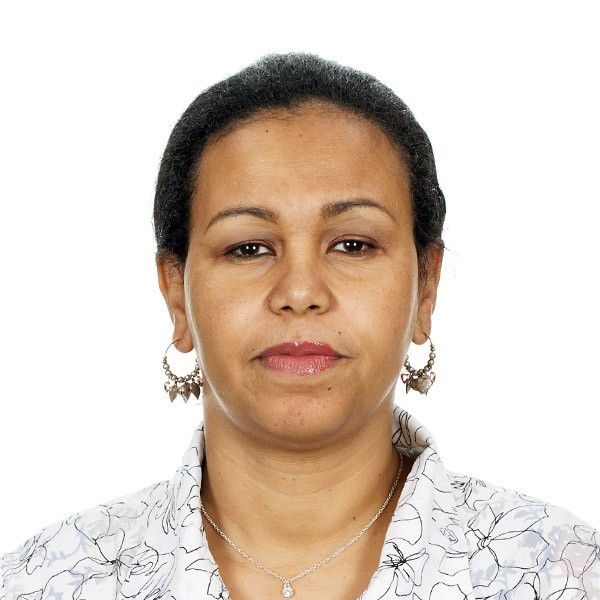
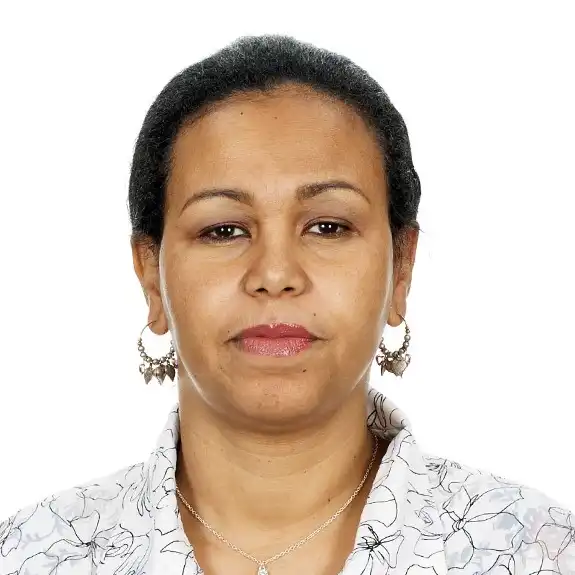
add Lakesh to the organizers

Changed region(s): [[0.0, 0.0591, 1.0, 1.0], [0.4139, 0.887, 0.473, 0.9165], [0.4435, 0.7391, 0.473, 0.7687]]

diff --git a/src/components/section/organizers.tsx b/src/components/section/organizers.tsx
@@ -79,7 +79,7 @@ export default function Organizers({ className, ...props }: HTMLProps<HTMLDivEle
             <div className="w-32 h-32 mb-5 relative">
               <Image
                 className="rounded-full border border-gray-100 shadow-lg"
-                src="/img/organisers/wenlan.webp"
+                src="/img/organisers/lakesh.webp"
                 alt="Lakech Tsegaye"
                 object-fit="cover"
                 fill={true}
